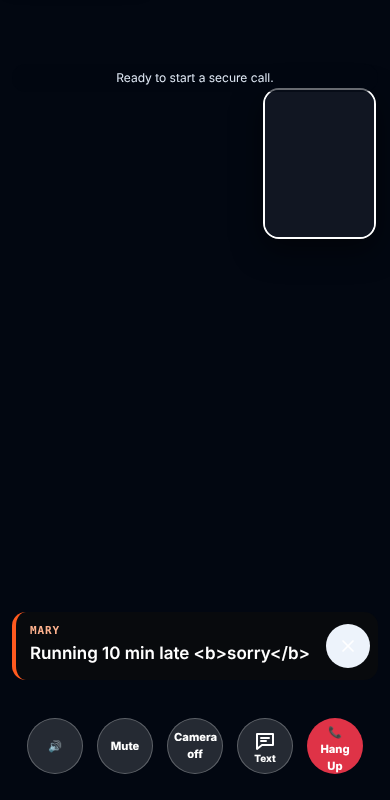
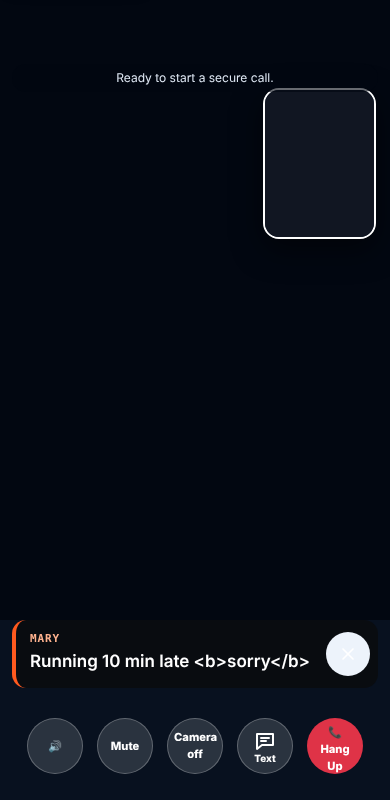
L3: the in-call Text note shows on the receiver's phone, at the bottom
Owner 2026-11-19: "the text box works in the callers side over video but
not on the receivers side … You can even make the video a little smaller
and put the text box on the bottom."

Root cause (reproduced with a real answered call): the receiver drew the
note inside the other person's video tile. On a voice call (or for a
receiver who answered without video) that tile is hidden, so the note
was there but invisible.

- The note is now a band on the call screen itself, just above the call
  buttons, on voice and video calls (same layer as the note box).
- On a video call the video shrinks to end above the note, so nothing
  covers the picture; it grows back when the note is closed.
- The receiver confirms delivery over the data channel; the sender shows
  "Sending…" and "Sent ✓" only after that confirmation, or "Not
  delivered, try again" with the text kept in the box. Receipts never
  show in the chat (chat.js passes every call-note* message to the note
  layer).
- Translated (it, fr, es, de, pt).

Checks: browser-checks/call-note.cjs answers a real call (a second
RTCPeerConnection plays the caller and makes the data channel) on voice and
video at 360/390px: the note is on screen and hit by a tap at its centre,
above the call buttons, the video ends above it, delivery is confirmed,
✕ closes it and the video grows back; the sender's Sent ✓ waits for the
confirmation. It fails on main ("the receiver did not show and confirm
[…]

diff --git a/assets/call-note.js b/assets/call-note.js
@@ -2,10 +2,15 @@
 // Task 30 (owner 2026-11-18): a 5th call button, Text. It opens a small box; Send puts the note over the other person's
 // video until they close it. Notes travel over the call's own peer-to-peer data channel: no server, nothing stored,
 // gone when the call ends. Text only (no HTML, links not clickable), 280 characters, one note every 2 seconds.
+// L3 (owner 2026-11-19: "the text box works in the callers side over video but not on the receivers side … make the
+// video a little smaller and put the text box on the bottom"): the note was drawn inside the other person's video tile,
+// which is hidden on a voice call (and on a receiver who answered without video), so it never showed. It is now a band
+// on the call screen itself, just above the call buttons, on voice and video calls; on a video call the video shrinks
+// to end above it. The sender sees "Sent ✓" only once the other phone confirms it got the note.
 (() => {
-  const MAX = 280, GAP_MS = 2000;
+  const MAX = 280, GAP_MS = 2000, ACK_MS = 4000;
   const t = value => window.danzstakTranslate?.(value) || value;
-  let lastSent = 0, lastReceived = 0, sheet = null, overlay = null;
+  let lastSent = 0, lastReceived = 0, sheet = null, overlay = null, waiting = null;
 
   function liveChannel() {
     try { return typeof channel !== "undefined" && channel && channel.readyState === "open" ? channel : null; } catch { return null; } // eslint-disable-line no-undef
@@ -38,16 +43,27 @@
       if (Date.now() - lastSent < GAP_MS) { status.textContent = t("One moment…"); return; }
       const live = liveChannel();
       if (!live) { status.textContent = t("Note not sent, try again"); return; }
-      try { live.send(JSON.stringify({ type: "call-note", id: Math.random().toString(36).slice(2, 10), text, sentAt: Date.now() })); }
+      const id = Math.random().toString(36).slice(2, 10);
+      try { live.send(JSON.stringify({ type: "call-note", id, text, sentAt: Date.now() })); }
       catch { status.textContent = t("Note not sent, try again"); return; }
-      lastSent = Date.now(); status.textContent = t("Sent ✓"); box.value = ""; count.textContent = "";
-      setTimeout(closeSheet, 700);
+      lastSent = Date.now(); status.textContent = t("Sending…");
+      // Delivered only when the other phone says so; until then the text stays in the box.
+      clearTimeout(waiting?.timer);
+      waiting = { id, timer: setTimeout(() => { waiting = null; if (sheet) status.textContent = t("Not delivered, try again"); }, ACK_MS) };
     });
     sheet.addEventListener("keydown", event => { if (event.key === "Escape") closeSheet(); });
     (document.querySelector(".call-panel, #videoGrid")?.parentElement || document.body).appendChild(sheet);
     fitToKeyboard(); box.focus();
   }
   function closeSheet() { sheet?.remove(); sheet = null; }
+  function delivered(id) {
+    if (!waiting || waiting.id !== id) return;
+    clearTimeout(waiting.timer); waiting = null;
+    if (!sheet) return;
+    sheet.querySelector(".call-note-status").textContent = t("Sent ✓");
+    sheet.querySelector("textarea").value = ""; sheet.querySelector(".call-note-count").textContent = "";
+    setTimeout(closeSheet, 700);
+  }
   // Keep the box above the phone keyboard.
   function fitToKeyboard() {
     if (!sheet || !window.visualViewport) return;
@@ -56,28 +72,41 @@
   }
   window.visualViewport?.addEventListener("resize", fitToKeyboard);
 
-  // Incoming note → card over the other person's video until they close it. Returns true when handled.
+  // Incoming note → a band at the bottom of the call screen until they close it; its delivery is confirmed to the
+  // sender. Returns true when handled (notes and confirmations never show in the chat).
   function receive(raw, senderName = "") {
     let note;
     try { note = JSON.parse(raw); } catch { return false; }
+    if (note?.type === "call-note-ack") { delivered(String(note.id || "")); return true; }
     if (!note || note.type !== "call-note") return false;
     const text = clean(note.text);
     if (!text || String(note.text || "").length > MAX) return true; // ignored, never shown in chat either
     if (Date.now() - lastReceived < 500) return true;
     lastReceived = Date.now();
+    try { liveChannel()?.send(JSON.stringify({ type: "call-note-ack", id: String(note.id || "").slice(0, 16) })); } catch { /* the sender then says "Not delivered" */ }
     overlay?.remove();
     overlay = document.createElement("section");
     overlay.className = "call-note-overlay"; overlay.setAttribute("role", "status"); overlay.setAttribute("aria-live", "polite");
     const who = document.createElement("small"); who.className = "call-note-from"; who.textContent = String(senderName || "").split(/\s+/)[0] || t("Note");
     const body = document.createElement("p"); body.className = "call-note-text"; body.textContent = text; // text only
     const close = document.createElement("button"); close.type = "button"; close.className = "call-note-dismiss"; close.setAttribute("aria-label", t("Close note")); close.textContent = "✕";
-    close.addEventListener("click", () => { overlay?.remove(); overlay = null; });
+    close.addEventListener("click", hideNote);
     overlay.append(who, body, close);
-    const stage = document.querySelector("#videoGrid figure:not(.local-video)") || document.getElementById("videoGrid") || document.body;
-    stage.appendChild(overlay);
+    // On the call screen itself (never inside a video tile that a voice call hides), like the note box.
+    (document.querySelector(".call-panel, #videoGrid")?.parentElement || document.body).appendChild(overlay);
+    fitVideo();
     return true;
   }
-  function reset() { closeSheet(); overlay?.remove(); overlay = null; }
+  // A video call's picture ends above the note instead of under it.
+  function fitVideo() {
+    const root = document.documentElement;
+    if (!overlay?.isConnected) { root.style.removeProperty("--call-note-band"); delete document.body.dataset.callNote; return; }
+    document.body.dataset.callNote = "1";
+    root.style.setProperty("--call-note-band", `${Math.max(0, Math.ceil(window.innerHeight - overlay.getBoundingClientRect().top + 8))}px`);
+  }
+  function hideNote() { overlay?.remove(); overlay = null; fitVideo(); }
+  window.addEventListener?.("resize", () => { if (overlay) fitVideo(); });
+  function reset() { closeSheet(); clearTimeout(waiting?.timer); waiting = null; hideNote(); }
 
   const controls = () => document.getElementById("mediaControls");
   function watch() {

diff --git a/assets/chat.js b/assets/chat.js
@@ -31,7 +31,7 @@ function waitIce(){return new Promise(resolve=>{if(peer.iceGatheringState==="com
 function callMediaError(error,kind){const video=kind==="video",name=error?.name||"";if(name==="NotAllowedError"||name==="SecurityError")return t(video?"Camera and microphone access is blocked. Allow both in your browser or device settings, then try again.":"Microphone access is blocked. Allow it in your browser or device settings, then try again.");if(name==="NotFoundError"||name==="DevicesNotFoundError")return t(video?"No camera or microphone was found on this device.":"No microphone was found on this device.");if(name==="NotReadableError"||name==="TrackStartError")return t(video?"The camera or microphone is being used by another app. Close it and try again.":"The microphone is being used by another app. Close it and try again.");return t(video?"The camera or microphone could not start. Check device permissions and try again.":"The microphone could not start. Check device permissions and try again.");}
 async function media(kind){if(kind==="text")return null;if(stream)return stream;try{stream=await navigator.mediaDevices.getUserMedia(window.danzstakCallSetup?.constraints?.(kind)||{audio:true,video:kind==="video"?{facingMode:"user",width:{ideal:1280},height:{ideal:720}}:false});els.localVideo.srcObject=stream;return stream;}catch(error){const failure=new Error(callMediaError(error,kind));failure.mediaBlocked=error?.name==="NotAllowedError"||error?.name==="SecurityError";failure.kind=kind;throw failure;}}
 function addMessage(text,mine=false){const item=document.createElement("div");item.className="message"+(mine?" mine":"");window.danzstakRenderUserText?.(item,text)||(item.textContent=text);const meta=document.createElement("span");meta.className="message-meta";meta.textContent=(mine?t("You"):contact||"Contact")+" · "+new Date().toLocaleTimeString([],{hour:"2-digit",minute:"2-digit"});item.append(meta);els.list.append(item);els.list.scrollTop=els.list.scrollHeight;}
-function useChannel(next){channel=next;channel.addEventListener("open",()=>{els.input.disabled=false;els.form.querySelector("button").disabled=false;setStatus(tf("Connected securely to {name}.",{name:contactName}));});channel.addEventListener("message",event=>{if(typeof event.data!=="string"||event.data.length>2000)return;/* task 30: a call note shows over the video, not in the chat */if(event.data.startsWith('{"type":"call-note"')&&window.danzstakCallNote?.receive(event.data,contactName))return;addMessage(event.data);});channel.addEventListener("close",()=>disableChat());}
+function useChannel(next){channel=next;channel.addEventListener("open",()=>{els.input.disabled=false;els.form.querySelector("button").disabled=false;setStatus(tf("Connected securely to {name}.",{name:contactName}));});channel.addEventListener("message",event=>{if(typeof event.data!=="string"||event.data.length>2000)return;/* task 30: a call note shows over the video, not in the chat */if(event.data.startsWith('{"type":"call-note')&&window.danzstakCallNote?.receive(event.data,contactName))return;addMessage(event.data);});channel.addEventListener("close",()=>disableChat());}
 function disableChat(){els.input.disabled=true;els.form.querySelector("button").disabled=true;}
 async function failConnection(activePeer){if(peer!==activePeer)return;const failedContact=contact,failedCallId=callId;await signal("hangup",{reason:"connection-failed"}).catch(()=>{});if(peer!==activePeer||contact!==failedContact||callId!==failedCallId)return;await end(false);setStatus(t("The call notification worked, but this network could not connect the audio."));}
 async function handleConnectionState(activePeer){if(peer!==activePeer)return;const state=activePeer.connectionState;if(state==="connected"){stopRingback();clearTimeout(connectionLossTimer);connectionLossTimer=null;setStatus(tf("Secure {mode} connection established.",{mode:t(mode)}));return;}if(state==="disconnected"){clearTimeout(connectionLossTimer);setStatus(t("Call connection interrupted. Reconnecting…"));connectionLossTimer=setTimeout(async()=>{if(peer!==activePeer||activePeer.connectionState==="connected")return;await failConnection(activePeer);},10000);return;}if(state==="failed"){clearTimeout(connectionLossTimer);connectionLossTimer=null;await failConnection(activePeer);}}

diff --git a/assets/i18n-sync.js b/assets/i18n-sync.js
@@ -5,6 +5,8 @@
  const t=window.danzstakTranslations||(window.danzstakTranslations={en:{}});
  const add={
 "it": {
+"Sending…": "Invio…",
+"Not delivered, try again": "Non consegnata, riprova",
 "Get a SYNC icon on your home screen, straight to your chats.": "Un'icona SYNC nella schermata Home, dritta alle tue chat.",
 "Add SYNC to home screen": "Aggiungi SYNC alla schermata Home",
 "Save the SYNC app to your home screen": "Salva l'app SYNC nella schermata Home",
@@ -293,6 +295,8 @@
 "You can resend once. Try again in 10 minutes.": "Puoi richiedere un nuovo invio una sola volta. Riprova tra 10 minuti."
 },
 "fr": {
+"Sending…": "Envoi…",
+"Not delivered, try again": "Pas reçu, réessaie",
 "Get a SYNC icon on your home screen, straight to your chats.": "Une icône SYNC sur ton écran d'accueil, directement vers tes chats.",
 "Add SYNC to home screen": "Ajouter SYNC à l'écran d'accueil",
 "Save the SYNC app to your home screen": "Enregistre l'app SYNC sur ton écran d'accueil",
@@ -582,6 +586,8 @@
 "You can resend once. Try again in 10 minutes.": "Tu peux renvoyer une seule fois. Réessaie dans 10 minutes."
 },
 "es": {
+"Sending…": "Enviando…",
+"Not delivered, try again": "No entregada, inténtalo de nuevo",
 "Get a SYNC icon on your home screen, straight to your chats.": "Un icono de SYNC en tu pantalla de inicio, directo a tus chats.",
 "Add SYNC to home screen": "Añadir SYNC a la pantalla de inicio",
 "Save the SYNC app to your home screen": "Guarda la app SYNC en tu pantalla de inicio",
@@ -870,6 +876,8 @@
 "You can resend once. Try again in 10 minutes.": "Solo puedes reenviar una vez. Inténtalo de nuevo en 10 minutos."
 },
 "de": {
+"Sending…": "Wird gesendet…",
+"Not delivered, try again": "Nicht zugestellt, versuch es noch mal",
 "Get a SYNC icon on your home screen, straight to your chats.": "Ein SYNC-Symbol auf deinem Startbildschirm, direkt zu deinen Chats.",
 "Add SYNC to home screen": "SYNC zum Startbildschirm hinzufügen",
 "Save the SYNC app to your home screen": "Speichere die SYNC-App auf deinem Startbildschirm",
@@ -973,6 +981,8 @@
 "You can resend once. Try again in 10 minutes.": "Du kannst nur einmal erneut senden. Versuche es in 10 Minuten erneut."
 },
 "pt": {
+"Sending…": "Enviando…",
+"Not delivered, try again": "Não entregue, tente de novo",
 "Get a SYNC icon on your home screen, straight to your chats.": "Um ícone do SYNC na sua tela inicial, direto para as suas conversas.",
 "Add SYNC to home screen": "Adicionar o SYNC à tela inicial",
 "Save the SYNC app to your home screen": "Salve o app SYNC na sua tela inicial",

diff --git a/assets/call-screen.css b/assets/call-screen.css
@@ -2,7 +2,7 @@
 body[data-call-mode="video"]{--call-subtitle-band:0px;--call-pip-top:calc(88px + env(safe-area-inset-top,0px));--call-pip-bottom:calc(26px + 56px + 18px + env(safe-area-inset-bottom,0px) + var(--call-subtitle-band))}
 body[data-call-mode="video"][data-call-subtitles="on"]{--call-subtitle-band:clamp(84px,17dvh,140px)}
 /* Big video: edge to edge, framed slightly above centre (where faces are); ends above the subtitle band when it is on. */
-body[data-call-mode="video"] .video-grid{bottom:var(--call-subtitle-band)!important;height:auto!important;touch-action:manipulation}
+body[data-call-mode="video"] .video-grid{bottom:max(var(--call-subtitle-band),var(--call-note-band,0px))!important;transition:bottom .2s ease;height:auto!important;touch-action:manipulation}
 body[data-call-mode="video"] .video-grid video{max-height:none!important}/* chat.css capped call video at 440px tall */
 body[data-call-mode="video"] .video-grid #remoteVideo,body[data-call-mode="video"] .video-grid[data-swapped="1"] #localVideo{object-fit:cover;object-position:50% 35%}
 body[data-call-mode="video"] .video-grid[data-fit="contain"] #remoteVideo,body[data-call-mode="video"] .video-grid[data-fit="contain"][data-swapped="1"] #localVideo{object-fit:contain;object-position:50% 50%}
@@ -24,3 +24,4 @@ body[data-call-mode="video"][data-call-subtitles="on"] .call-subtitles:not([hidd
 /* Tidy: the self view needs no "You" label (it showed twice), and the old control-bar border drew a line across the video. */
 body[data-call-mode="video"] .video-grid figcaption{display:none!important}
 body[data-call-mode="video"] .media-controls{border:0!important}
+@media(prefers-reduced-motion:reduce){body[data-call-mode="video"] .video-grid{transition:none}}

diff --git a/assets/call-note.css b/assets/call-note.css
@@ -9,7 +9,7 @@ body[data-call-mode] .media-controls .call-note-button span{font-size:.62rem;lin
 .call-note-status{flex:1;color:#f5f5f2;font-size:13px}
 .call-note-close{width:44px;height:44px;border:0;border-radius:50%;background:rgba(255,255,255,.14);color:#fff;font-size:18px}
 .call-note-send{min-height:44px;padding:0 20px;border:0;border-radius:999px;background:var(--ds-btn-go,#15803d);color:#fff;font-weight:800;font-size:15px}
-.call-note-overlay{position:absolute;z-index:6;left:12px;right:12px;bottom:calc(120px + env(safe-area-inset-bottom,0px) + var(--call-subtitle-band,0px));display:grid;grid-template-columns:1fr 44px;gap:2px 8px;padding:12px 8px 12px 14px;border-left:4px solid #ff5a1f;border-radius:14px;background:rgba(10,11,13,.78);backdrop-filter:blur(10px);color:#fff;animation:call-note-in .18s ease-out}
+.call-note-overlay{position:fixed;z-index:30;left:12px;right:12px;bottom:calc(112px + env(safe-area-inset-bottom,0px) + var(--call-subtitle-band,0px));display:grid;grid-template-columns:1fr 44px;gap:2px 8px;padding:12px 8px 12px 14px;border-left:4px solid #ff5a1f;border-radius:14px;background:rgba(10,11,13,.78);backdrop-filter:blur(10px);color:#fff;animation:call-note-in .18s ease-out}
 .call-note-from{grid-column:1;color:#ffb38f;font:700 11px ui-monospace,monospace;letter-spacing:.08em;text-transform:uppercase}
 .call-note-text{grid-column:1;margin:0;font:600 17px/1.35 system-ui,sans-serif;white-space:pre-wrap;overflow-wrap:anywhere}
 .call-note-dismiss{grid-column:2;grid-row:1/3;align-self:start;width:44px;height:44px;border:0;border-radius:50%;background:rgba(255,255,255,.14);color:#fff;font-size:18px}
